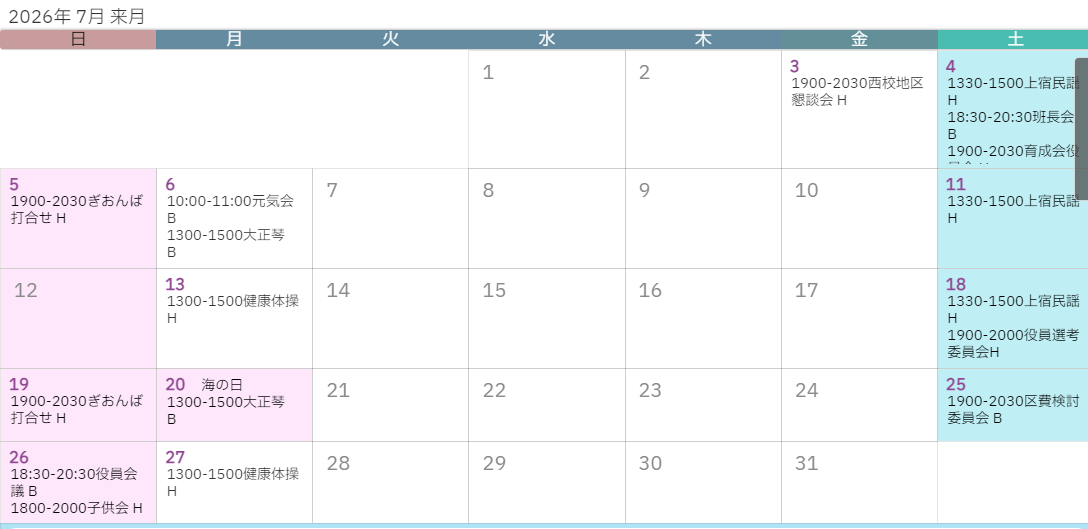
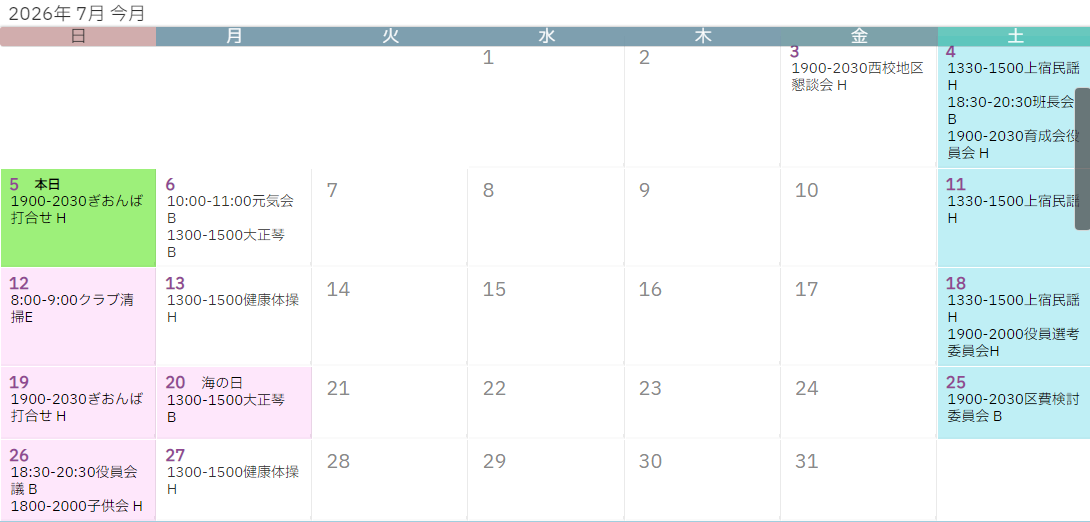
Add files via upload

diff --git a/index.html b/index.html
@@ -11,22 +11,23 @@
     <h2>上宿クラブ予定表</h2>
       <ul id="future_calendar">
         <p>予定表は新しい画面(タブ)にて表示されます。確認後予定表を閉じてください。<br> <!--改行--></p> 
-        <li><a href="calendar202606.PNG" target="_blank">２０２６年６月</a>
+        
         <li><a href="calendar202607.PNG" target="_blank">２０２６年７月</a>
         <li><a href="calendar202608.PNG" target="_blank">２０２６年８月</a>
-        <li><a href="calendar202609.PNG" target="_blank">２０２６年９月</a>   
+        <li><a href="calendar202609.PNG" target="_blank">２０２６年９月</a>
+        <li><a href="calendar202610.PNG" target="_blank">２０２６年１０月</a>   
         <p>クラブの予約は、予定表にて空きを確認してから <br> <!--改行-->
            SMS又は電話にて会計まで連絡してください。<br> <!--改行-->
            クラブ予定表の見方は　<a href="calender_index.html">こちら</a></p>
       </ul>
     <h3>過去の予定表</h3>
       <ul id="past_calendar">
+        <li><a href="calendar202606.PNG" target="_blank">２０２６年６月</a>
         <li><a href="calendar202605.PNG" target="_blank">２０２６年５月</a>
         <li><a href="calendar202604.PNG" target="_blank">２０２６年４月</a>
-        <li><a href="calendar202603.PNG" target="_blank">２０２６年３月</a>
       </ul>
     <hr> <!--横線を引く-->
-    <small>　最終更新日　2026年6月20日<br>
+    <small>　最終更新日　2026年7月05日<br>
           Copyright (c)  認可地縁団体法人　第３区　All Rights Reserved.</small>
   </body>
 </html>
